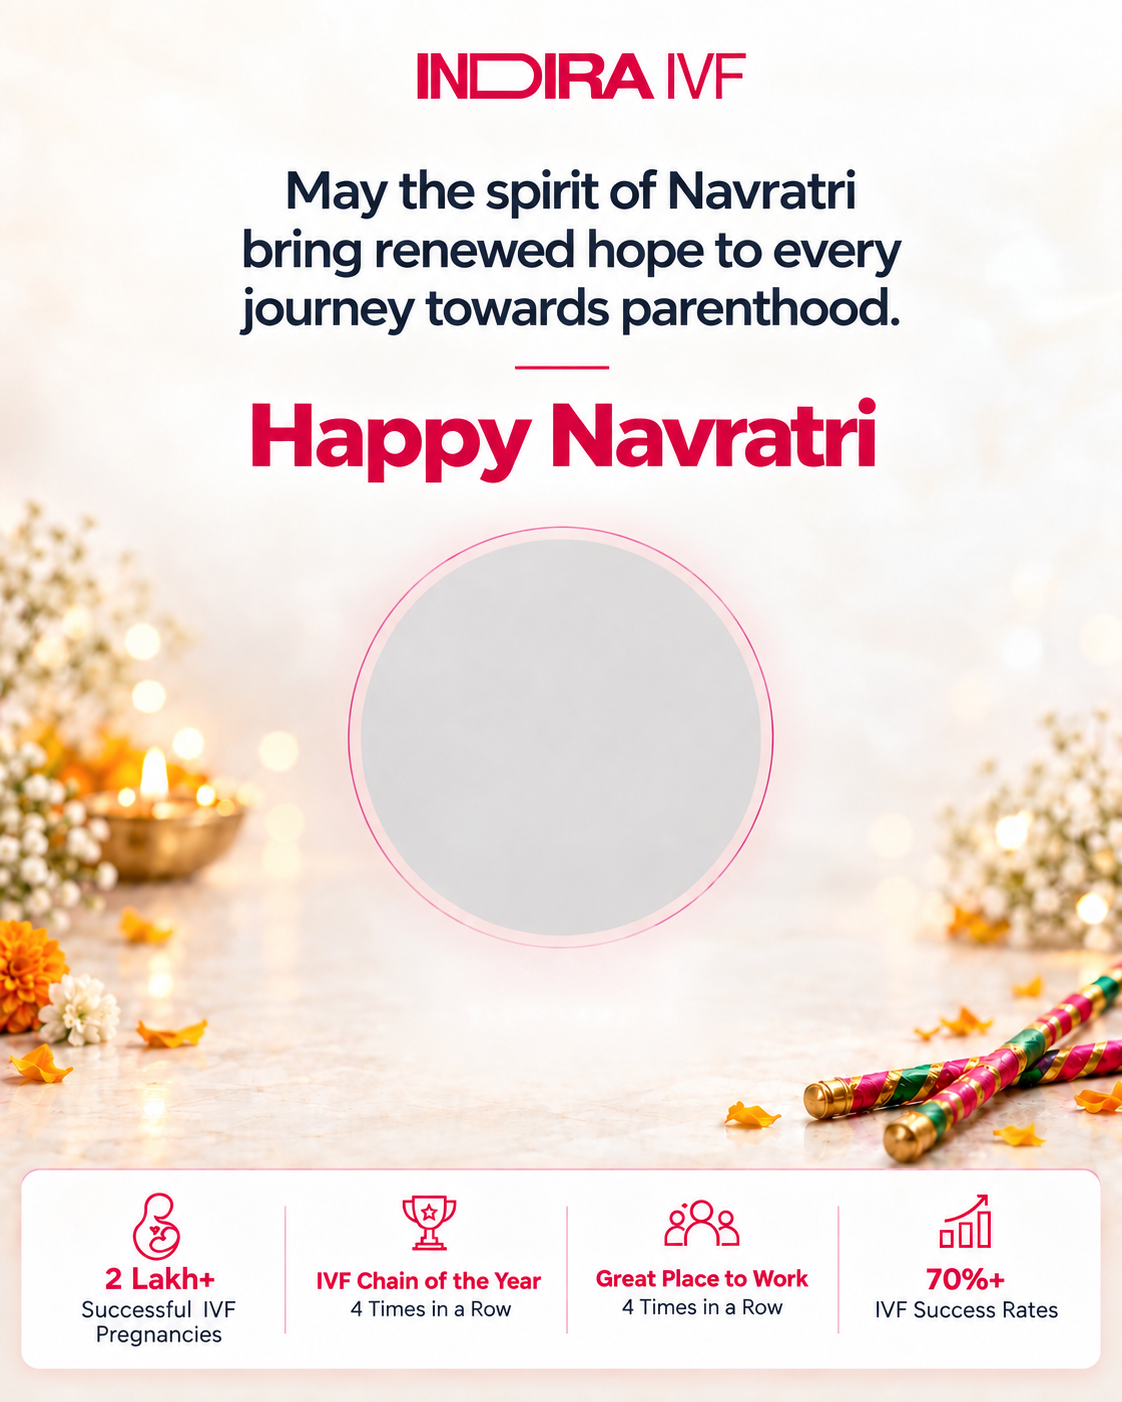
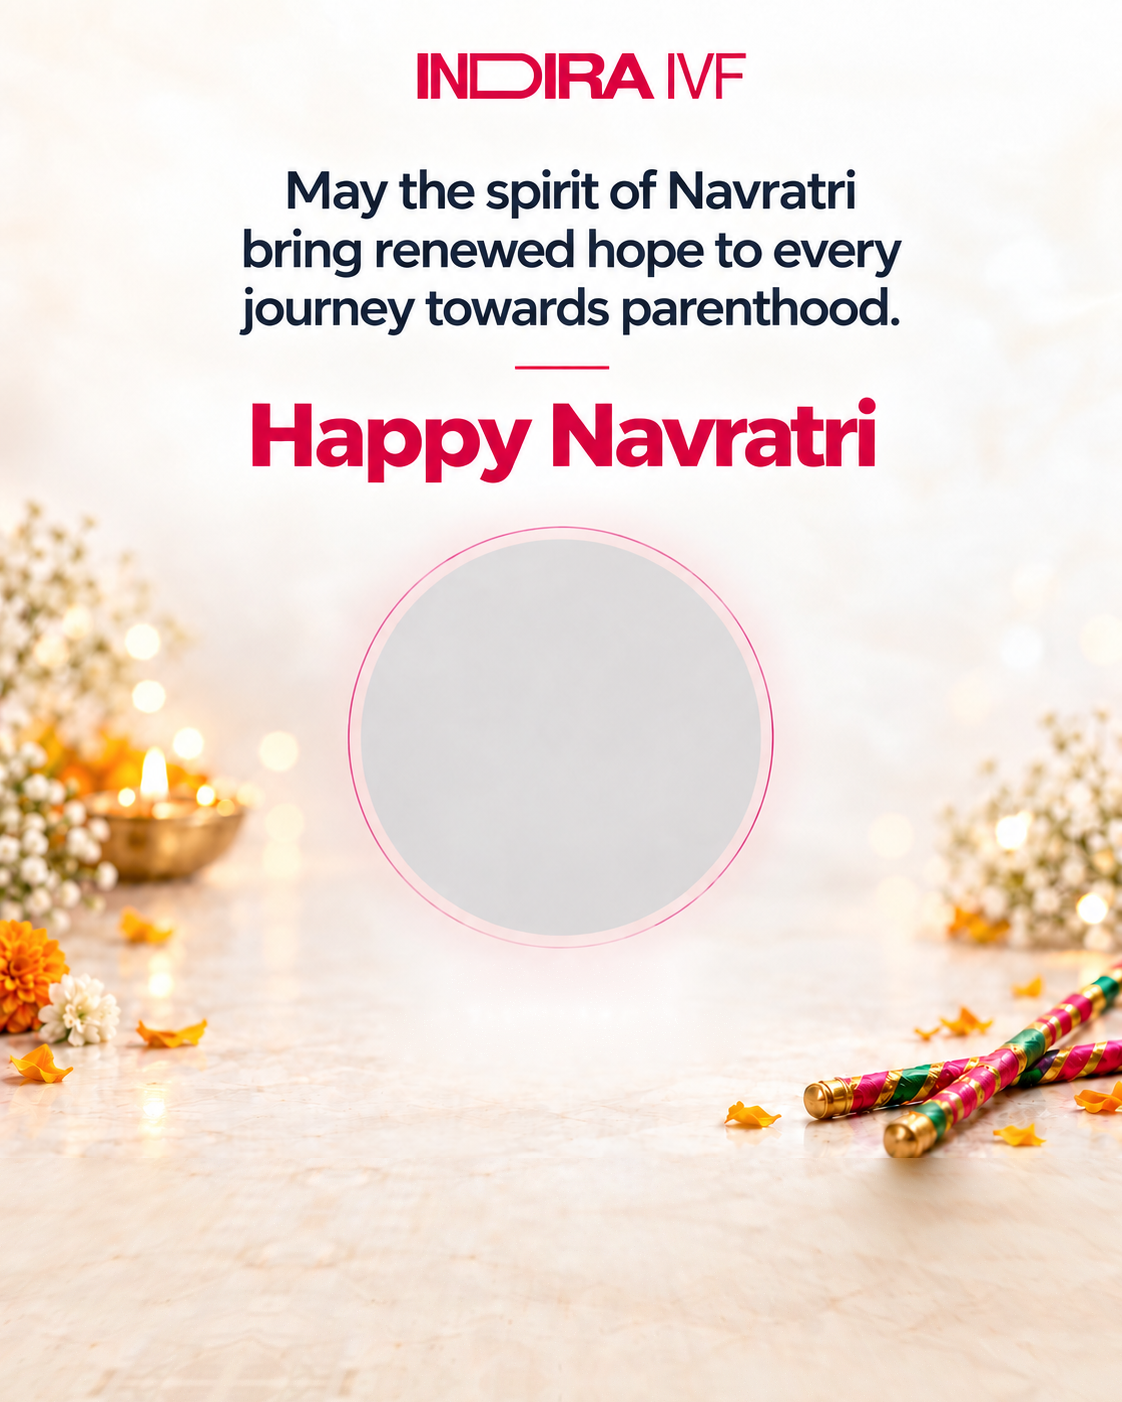
Remove stats strips, NAVRATRI badge, name-based download files
- Paint out the stats strip at the foot of both designs (same image size);
  the doctor design continues its marble floor, the employee design its bokeh
- Header badge reads NAVRATRI
- Downloads are saved as <name>_navratri_template.png
- Refresh the share preview image

Changed region(s): [[0.0, 0.8281, 1.0, 1.0]]

diff --git a/Indira_Creative_Studio.html b/Indira_Creative_Studio.html
@@ -282,7 +282,7 @@
       <strong>Happy <em>Navratri</em></strong>
       <span>Creative Studio · Indira IVF</span>
     </div>
-    <div class="hd-date">9 Nights · 9 Colours</div>
+    <div class="hd-date">NAVRATRI</div>
   </div>
   <div class="hd-bar"></div>
 </header>
@@ -1126,7 +1126,12 @@ function renderFull(person){
   drawCreative(c.getContext('2d'), art.width, person);
   return c;
 }
-const fileNameFor = p => 'Navratri_' + plate.id + '_' + (p.name.trim() || 'Untitled').replace(/[^\w\- ]+/g, '').replace(/\s+/g, '_') + '.png';
+// "<typed name>_navratri_template.png"; with no name, the design's role
+// (doctor / employee) stands in for it.
+const fileNameFor = p => {
+  const who = p.name.replace(/[^\w\- ]+/g, '').trim().replace(/\s+/g, '_');
+  return (who || plate.label.replace(/_template$/, '')) + '_navratri_template.png';
+};
 
 function saveBlob(blob, name){
   const url = URL.createObjectURL(blob);

diff --git a/tools/prepare_navratri.py b/tools/prepare_navratri.py
@@ -10,8 +10,9 @@ Inputs (tools/src):
     navratri-durga-source.png  template 2, 1024 x 1536, gold-bordered photo square
 
 Outputs (templates/):
-    navratri-<id>.png        the artwork, untouched (shown before text is typed)
-    navratri-<id>-clean.png  the artwork with the printed placeholder text removed
+    navratri-<id>.png        the artwork with the stats strip at the foot painted
+                             out (shown before text is typed); same size
+    navratri-<id>-clean.png  the same, with the printed placeholder text removed too
     header-durga.png         Durga eyes / bindi / nath motif for the round header mark
     favicon.png              64 px tab icon
 
@@ -40,6 +41,12 @@ PLATES = {
         "text_boxes": [(440, 962, 684, 1010), (388, 1014, 738, 1058)],
         # text-vs-paper colour distance that counts as ink, and mask growth
         "ink": 9, "spread": 4, "grain": 1.0,
+        # stats card at the foot (x 21-1100, y 1171-1368) plus its pink rim,
+        # its shadow and the blurred rows under it, down to the bottom edge
+        "strip_box": (0, 1158, 1122, 1402),
+        # clean marble between the petals and the dandiya; its veins are laid
+        # over the fill so the floor carries on instead of going soft
+        "strip_texture": (190, 1088, 710, 1160),
         "window_search": (330, 500, 792, 980),
         "shape": "ellipse",
         # pink ring starts ~8 px outside the grey disc
@@ -52,6 +59,11 @@ PLATES = {
         "text_boxes": [(404, 1274, 620, 1311), (428, 1311, 600, 1351)],
         # this artwork gives its lettering a soft light halo; catch it too
         "ink": 7, "spread": 4, "grain": 0.5,
+        # full-width stats band (y 1366-1503) and the shadow it casts above;
+        # starts below the designation line (ends at row 1351)
+        "strip_box": (0, 1356, 1024, 1510),
+        # soft bokeh: the smooth fill alone matches it
+        "strip_texture": None,
         "window_search": (398, 1026, 626, 1236),
         "shape": "rrect",
         # gold border sits only ~2 px outside the grey panel
@@ -160,6 +172,83 @@ def build_clean(pid, img):
     clean = inpaint(img, mask)
     clean = add_grain(clean, img, mask, seed=7, amount=cfg["grain"])
     return clean, mask
+
+
+# --------------------------------------------------------------------------
+# Stats strip removal
+# --------------------------------------------------------------------------
+def relax(sub, m, iters):
+    """Jacobi steps of the harmonic fill. The image border reflects, so a box
+    that touches the edge blends from the sides it shares with the artwork."""
+    for _ in range(iters):
+        p = np.pad(sub, ((1, 1), (1, 1), (0, 0)), mode="edge")
+        nb = (p[:-2, 1:-1] + p[2:, 1:-1] + p[1:-1, :-2] + p[1:-1, 2:]) / 4
+        sub[m] = nb[m]
+    return sub
+
+
+def fill_box(img, box, levels=4, iters=400):
+    """Paint the box out with a harmonic fill solved coarse to fine, so even a
+    tall band settles into a smooth blend of the background around it."""
+    x0, y0, x1, y1 = box
+    mask = np.zeros(img.shape[:2], bool)
+    mask[y0:y1, x0:x1] = True
+    out = img.copy()
+    guess = None
+    for lv in range(levels - 1, -1, -1):
+        k = 2 ** lv
+        h, w = -(-img.shape[0] // k), -(-img.shape[1] // k)
+        small = np.asarray(Image.fromarray(np.clip(img, 0, 255).astype(np.uint8)).resize((w, h), Image.BOX)).astype(np.float64)
+        m = np.asarray(Image.fromarray((mask * 255).astype(np.uint8)).resize((w, h), Image.BOX)) > 0
+        if guess is None:
+            small[m] = small[~m & dilate(m, 2)].mean(0)
+        else:
+            up = np.dstack([np.asarray(Image.fromarray(guess[..., c].astype(np.float32), "F").resize((w, h), Image.BILINEAR))
+                            for c in range(3)])
+            small[m] = up[m]
+        guess = relax(small, m, iters)
+    out[mask] = guess[mask]
+    return out, mask
+
+
+def mirror_index(c, n):
+    c = np.mod(c, 2 * n)
+    return np.where(c < n, c, 2 * n - 1 - c)
+
+
+def floor_texture(img, tex_box, box):
+    """Marble detail for the box: the patch's veins with its lighting removed,
+    mirror-tiled and laid in perspective, so they grow towards the viewer
+    (rows faster than columns) like the floor above."""
+    tx0, ty0, tx1, ty1 = tex_box
+    patch = img[ty0:ty1, tx0:tx1]
+    detail = patch - blur(patch, 18)
+    ph, pw = detail.shape[:2]
+    x0, y0, x1, y1 = box
+    ys, xs = np.mgrid[y0:y1, x0:x1].astype(np.float64)
+    n = y1 - y0
+    su = 1.1 + 0.7 * (ys - y0) / n
+    # v integrates 1 / (row scale), so rows stay continuous as the scale grows
+    kv = 2.0 / n
+    v = np.log((1.3 + kv * (ys - y0)) / 1.3) / kv + ph * 0.5
+    u = (xs - img.shape[1] / 2) / su + pw * 0.37
+    u0, v0 = np.floor(u).astype(int), np.floor(v).astype(int)
+    fu, fv = (u - u0)[..., None], (v - v0)[..., None]
+    at = lambda dv, du: detail[mirror_index(v0 + dv, ph), mirror_index(u0 + du, pw)]
+    return ((at(0, 0) * (1 - fu) + at(0, 1) * fu) * (1 - fv)
+            + (at(1, 0) * (1 - fu) + at(1, 1) * fu) * fv)
+
+
+def remove_strip(pid, img):
+    cfg = PLATES[pid]
+    filled, mask = fill_box(img, cfg["strip_box"])
+    if cfg["strip_texture"]:
+        x0, y0, x1, y1 = cfg["strip_box"]
+        # settle the colour fill, then lay the marble veins over it
+        soft = blur(filled, 6)
+        filled[mask] = soft[mask]
+        filled[y0:y1, x0:x1] += floor_texture(img, cfg["strip_texture"], cfg["strip_box"])
+    return add_grain(filled, img, mask, seed=11, amount=cfg["grain"])
 
 
 # --------------------------------------------------------------------------
@@ -324,7 +413,7 @@ def main():
     OUT.mkdir(exist_ok=True)
     report_ok = True
     for pid, cfg in PLATES.items():
-        img = load(cfg["src"])
+        img = remove_strip(pid, load(cfg["src"]))
         h, w = img.shape[:2]
         save_rgb(img, OUT / f"navratri-{pid}.png", optimize=True)
         clean, mask = build_clean(pid, img)

diff --git a/README.md b/README.md
@@ -49,14 +49,15 @@ Any static host works. `vercel.json` already rewrites `/` to the studio page. Ha
 python tools/prepare_navratri.py
 ```
 
-The script needs Pillow and NumPy. It does three things.
+The script needs Pillow and NumPy. It does four things.
 
-1. **Builds the clean artwork.** It finds the placeholder text, including its soft halo, and fills it in from the surrounding background. It then adds back matching grain so the patch does not look smooth.
-2. **Fits each photo window** to the grey placeholder printed inside the frame. It then checks two things:
+1. **Removes the stats strip** at the foot of each design and blends the background over it. The image size stays the same.
+2. **Builds the clean artwork.** It finds the placeholder text, including its soft halo, and fills it in from the surrounding background. It then adds back matching grain so the patch does not look smooth.
+3. **Fits each photo window** to the grey placeholder printed inside the frame. It then checks two things:
    - no placeholder grey is left outside the window, so there is no grey halo;
    - no ring or border pixel falls inside it, so the frame stays whole.
    It prints `PASS` or `FAIL` per design, plus the window values that go into `PLATES`.
-3. **Cuts the header mark:** the Durga motif shown in the round header badge, plus the tab icon.
+4. **Cuts the header mark:** the Durga motif shown in the round header badge, plus the tab icon.
 
 ## Geometry (`PLATES` in the HTML)
 
